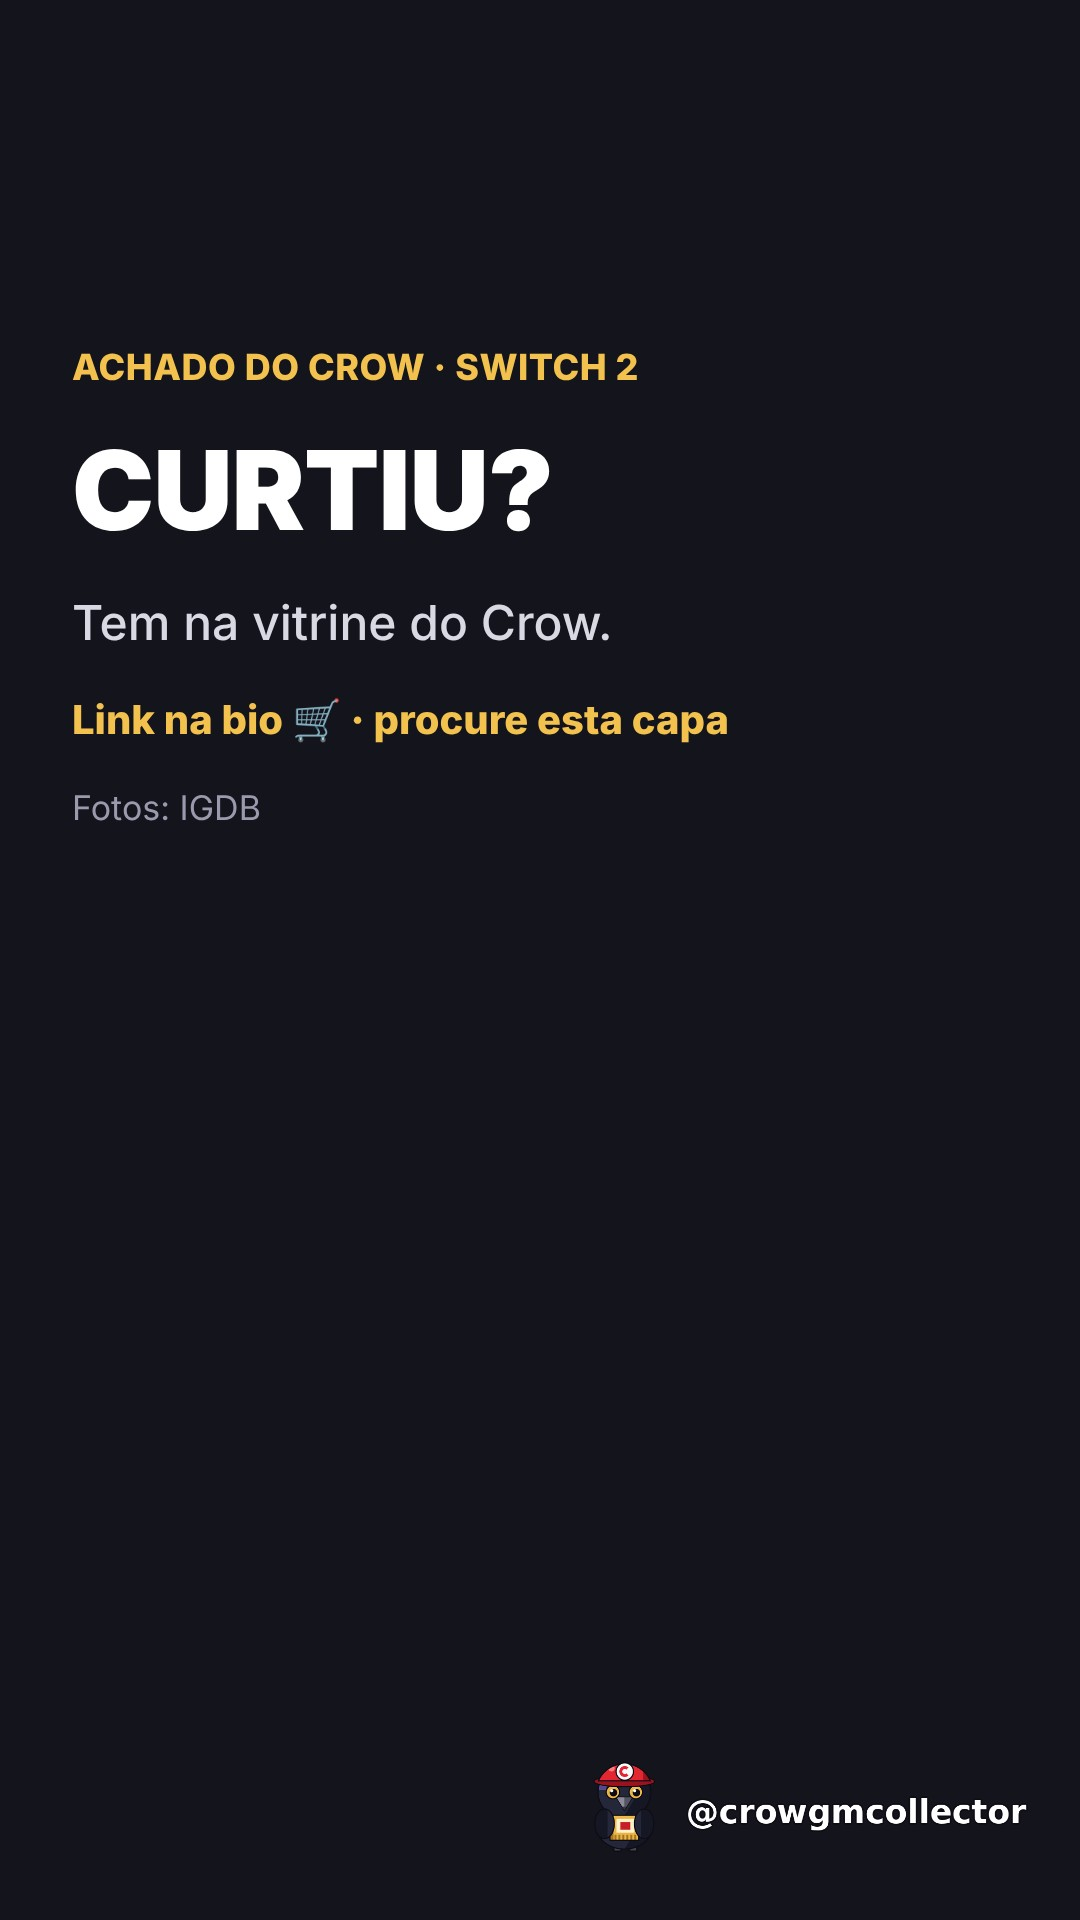
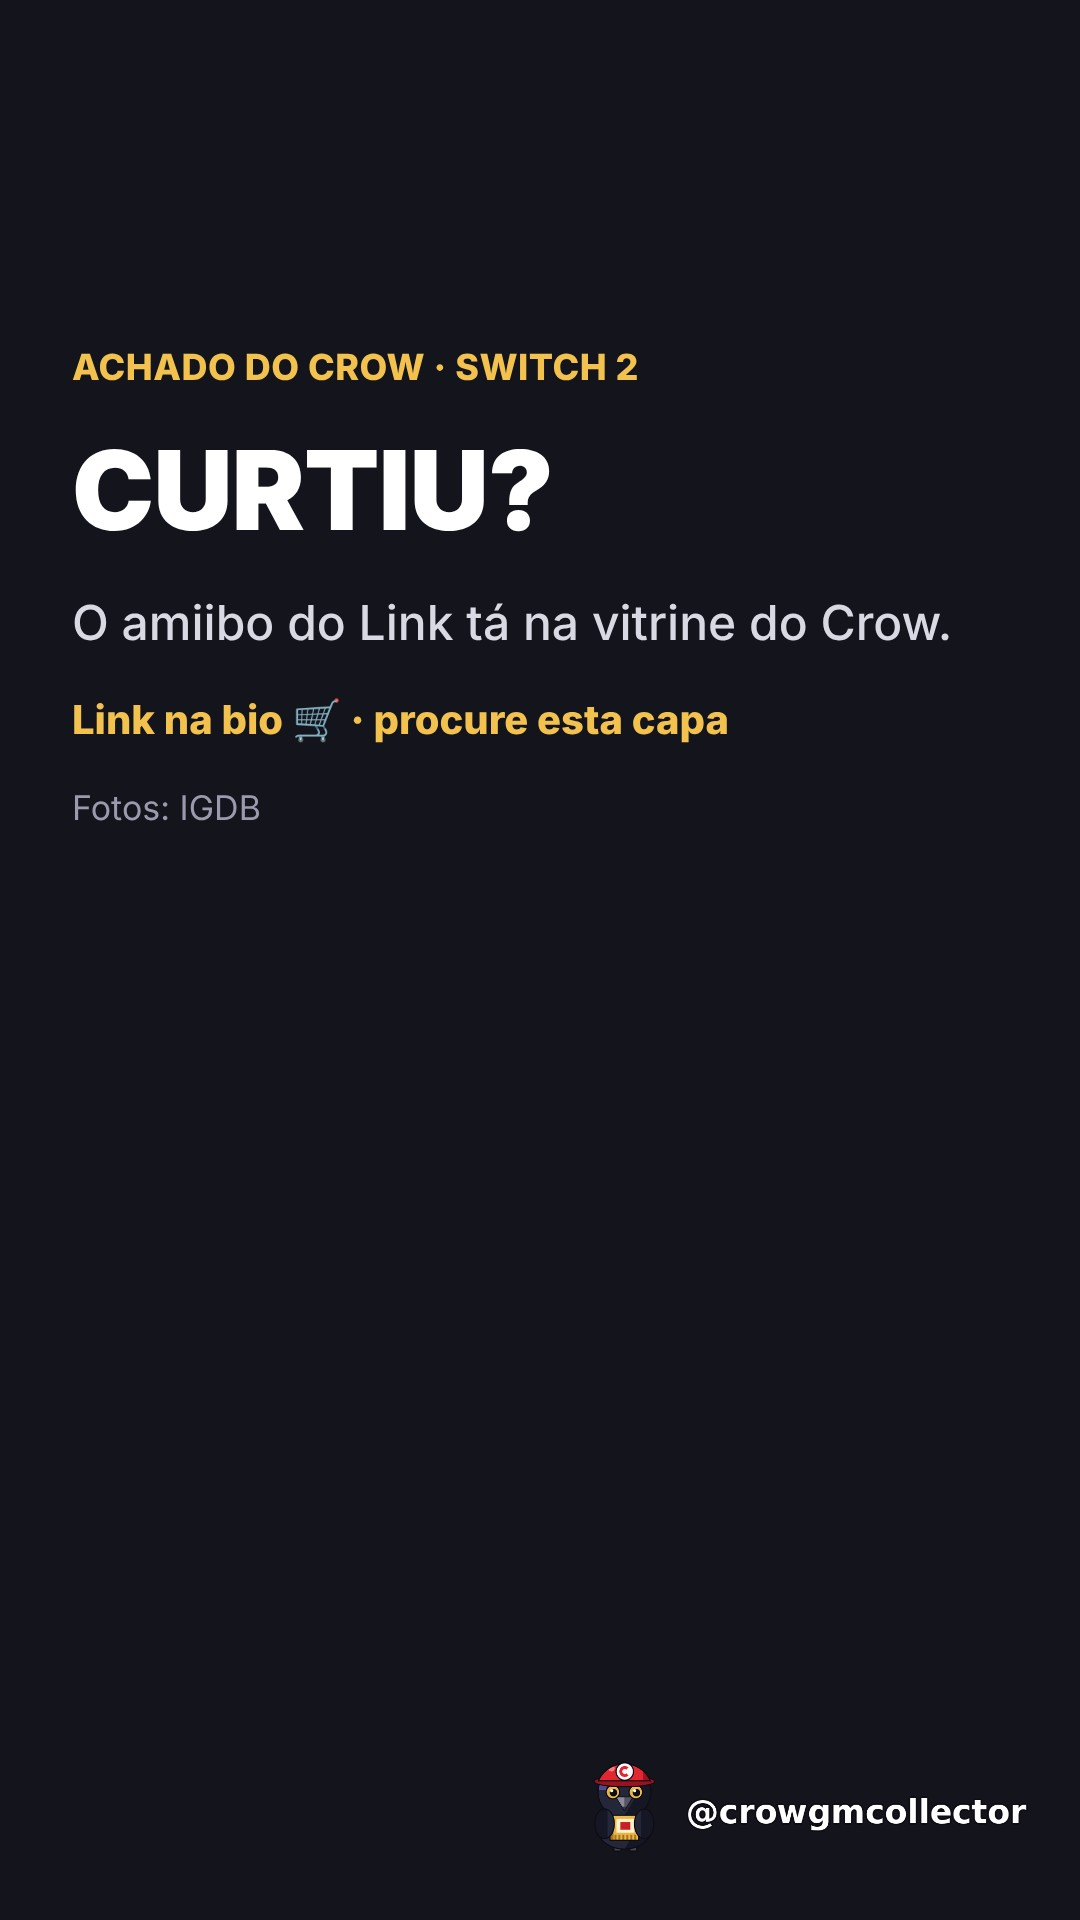
zelda-ocarina-of-time-switch-2: link do amiibo do Link e fim do post
Claude-Session: https://claude.ai/code/session_01Nx6sEEnJmxZNXAg5KBqKNM

Changed region(s): [[0.0611, 0.3125, 0.8861, 0.3438]]

diff --git a/achados/index.html b/achados/index.html
@@ -17,10 +17,10 @@
   <p class="sub">Viu o post no TikTok? Procure a mesma capa aqui. Os mais novos ficam em cima.</p>
   
   <div class="card">
-    <img src="zelda-ocarina-of-time-switch-2.jpg" alt="Capa do post OCARINA REFEITO" loading="lazy">
+    <img src="zelda-ocarina-of-time-switch-2.jpg" alt="Capa do post O AMIIBO DO LINK TÁ NA VITRINE DO CROW." loading="lazy">
     <div>
-      <h2>OCARINA REFEITO</h2>
-      <a class="btn" href="https://s.shopee.com.br/7fbUT4G14v" rel="nofollow sponsored noopener" target="_blank">Ver na Shopee</a>
+      <h2>O AMIIBO DO LINK TÁ NA VITRINE DO CROW.</h2>
+      <a class="btn" href="https://s.shopee.com.br/gRkEB77nB" rel="nofollow sponsored noopener" target="_blank">Ver na Shopee</a>
     </div>
   </div>
   
